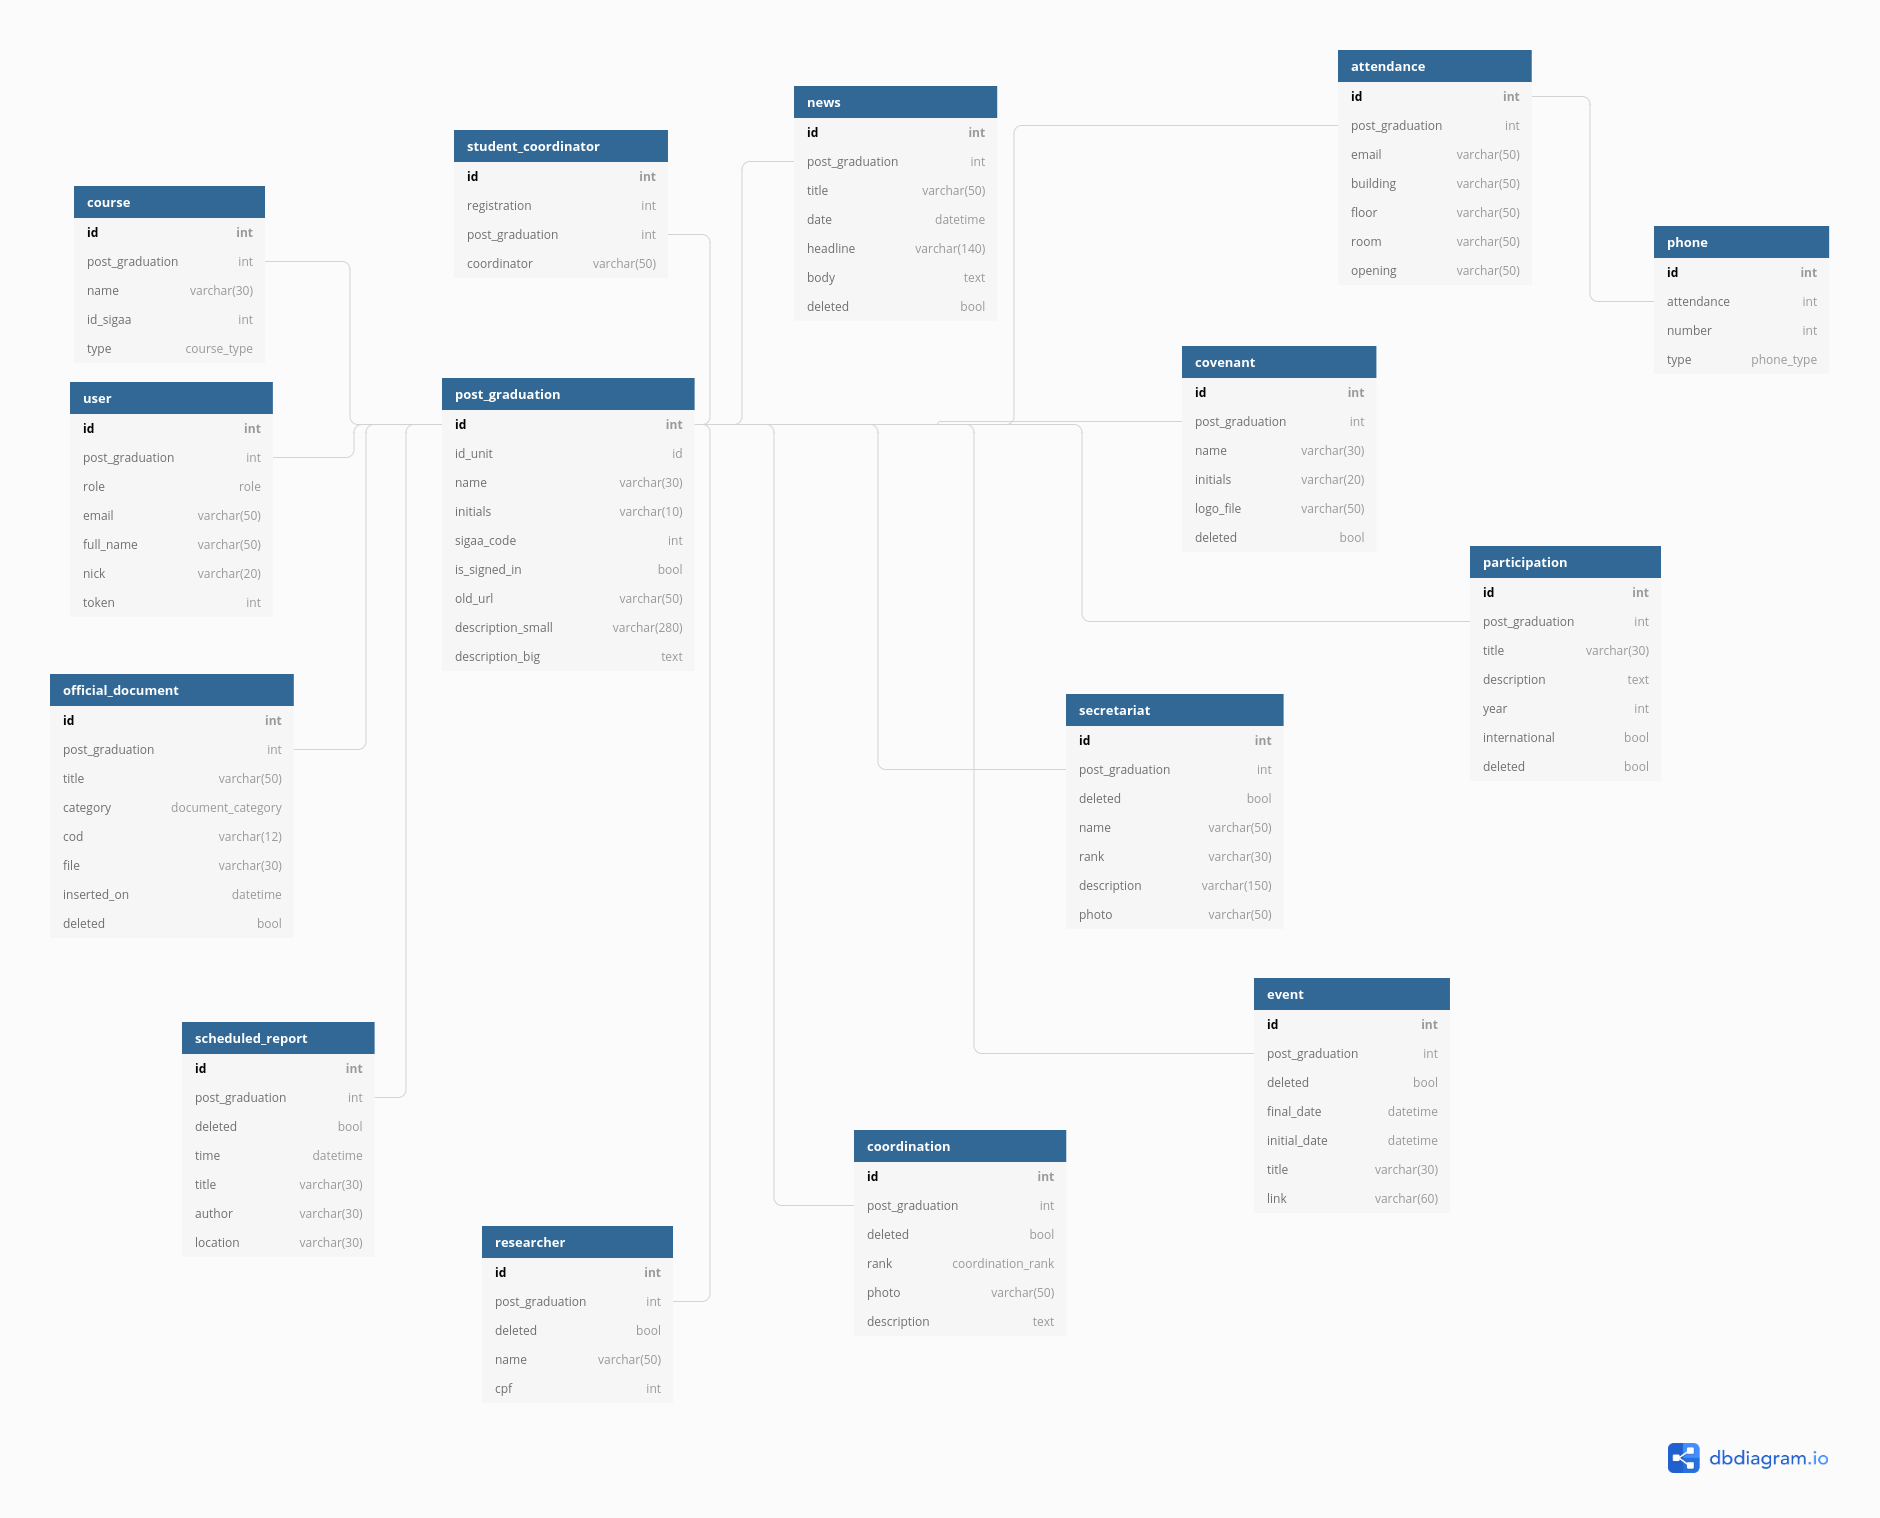
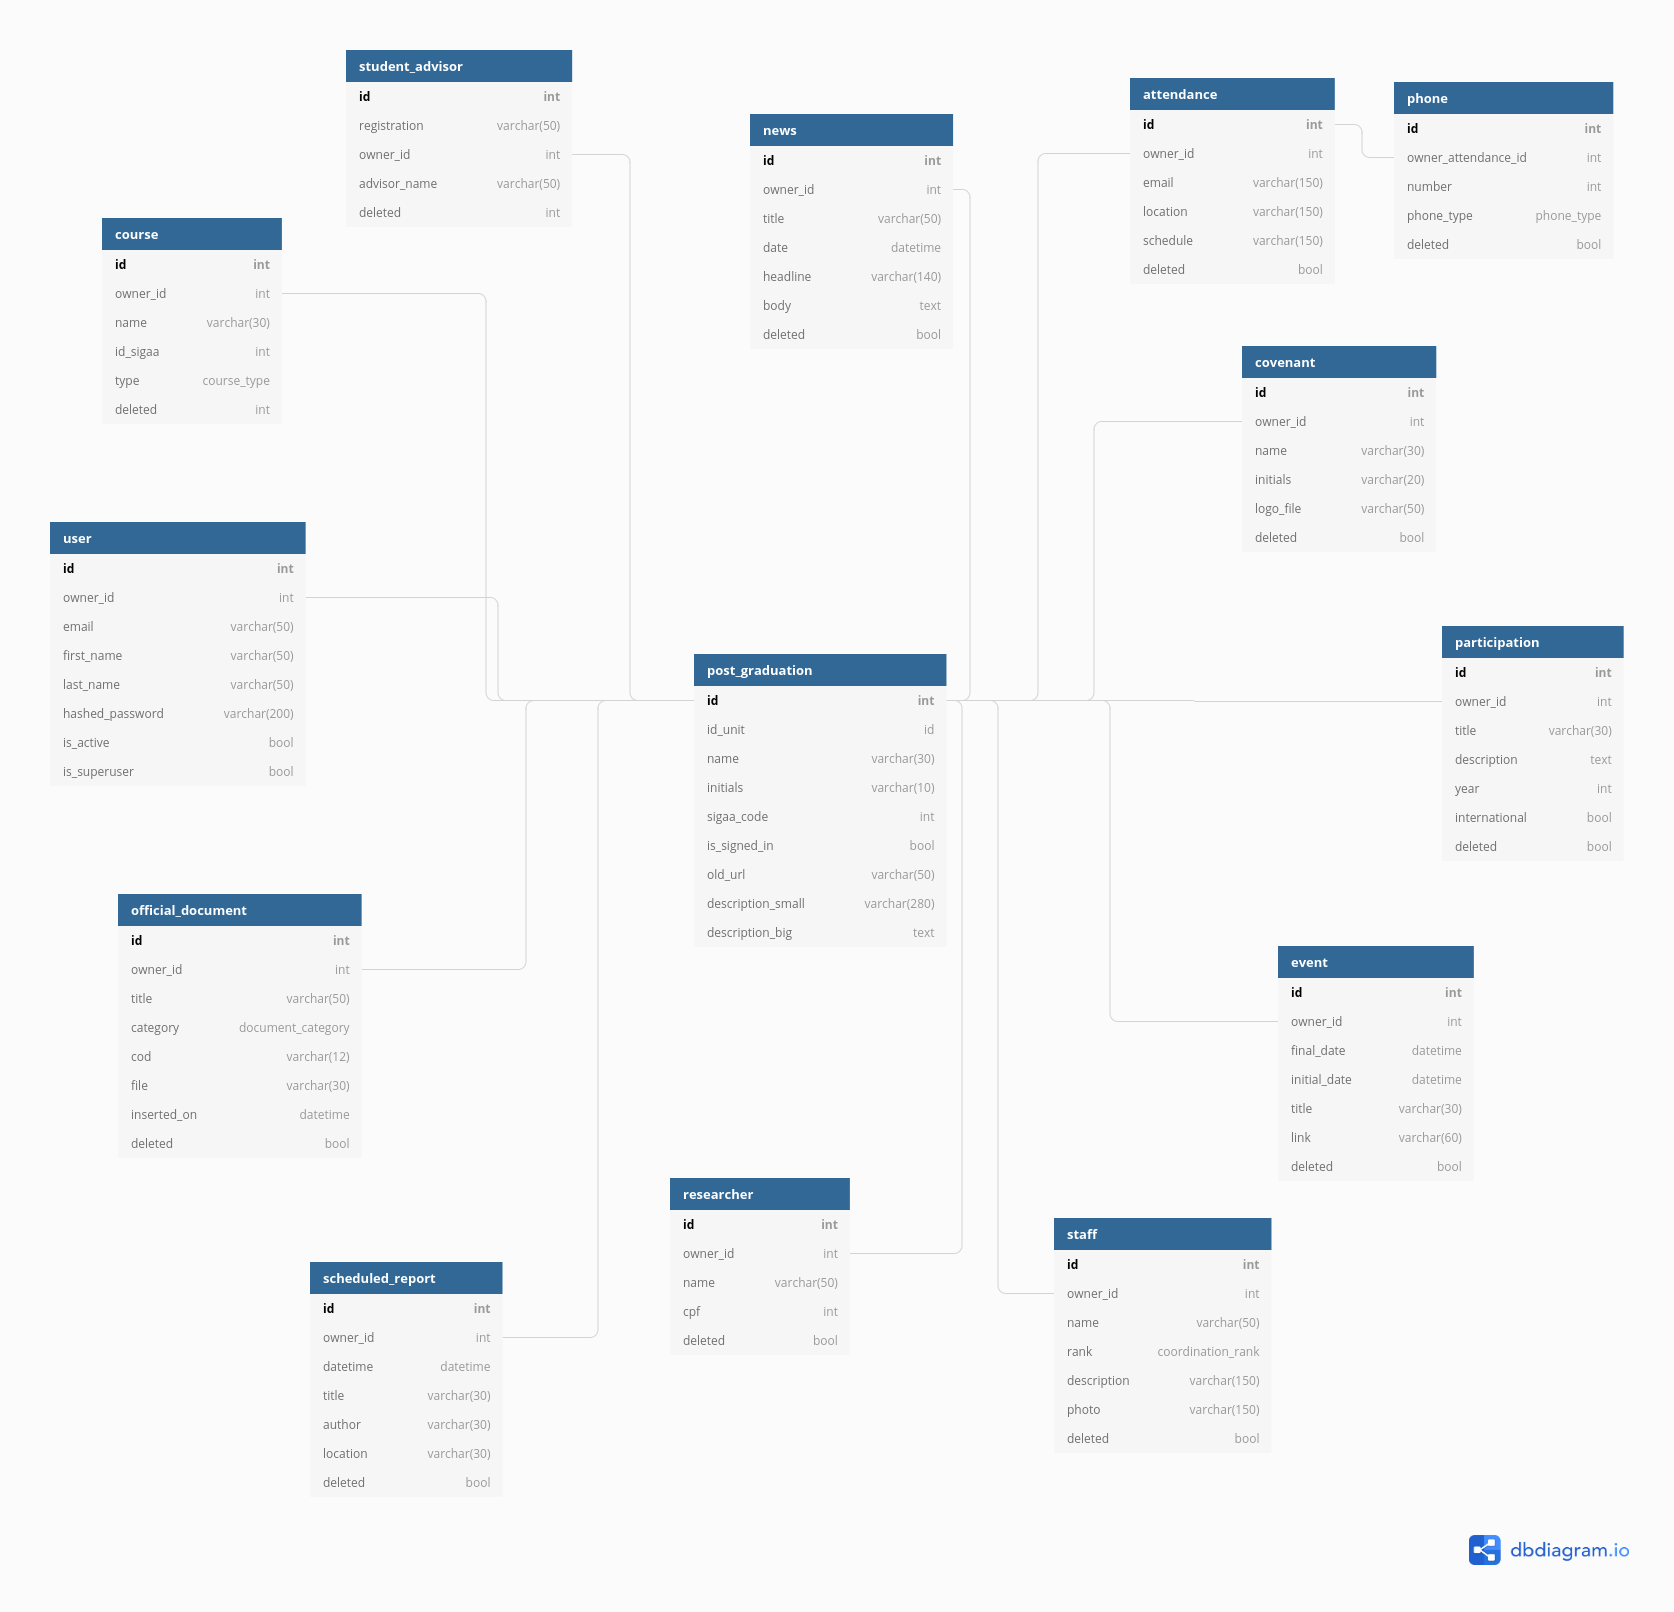
Added student advisor crud and update readme

diff --git a/backend/app/api/api_v1/routers/student_advisor.py b/backend/app/api/api_v1/routers/student_advisor.py
@@ -1,0 +1,50 @@
+#!/usr/bin/env python3
+
+from fastapi import APIRouter, Request, Depends, Response, encoders
+import typing as t
+
+from app.db.session import get_db
+from app.db.crud.post_graduations import delete_information, edit_information, get_information, create_student_advisor
+from app.db import models as m
+
+from app.schemas.pg_information_schemas import StudentAdvisorCreate, StudentAdvisor, StudentAdvisorEdit
+from app.core.auth import get_current_active_user
+
+student_advisor_router = c = APIRouter()
+
+@c.post("/coordenador", response_model=StudentAdvisor, response_model_exclude_none=True)
+async def student_advisor_create(
+    request: Request,
+    student_advisor: StudentAdvisorCreate,
+    db=Depends(get_db),
+    current_user=Depends(get_current_active_user),
+):
+    """
+    Create a new advisors
+    """
+    return create_student_advisor(db, current_user.owner_id, student_advisor)
+
+@c.delete("/coordenador/{student_advisor_id}", response_model=StudentAdvisor, response_model_exclude_none=True)
+async def student_advisor_delete(
+        request: Request,
+        student_advisor_id: int,
+        db=Depends(get_db),
+        current_user=Depends(get_current_active_user),
+):
+    """
+    Delete advisor
+    """
+    return delete_information(db, get_information(db, student_advisor_id, m.StudentAdvisor).id, m.StudentAdvisor)
+
+@c.put("/coordenador/{student_advisor_id}", response_model=StudentAdvisor, response_model_exclude_none=True)
+async def student_advisor_edit(
+        request: Request,
+        student_advisor_id: int,
+        student_advisor: StudentAdvisorEdit,
+        db=Depends(get_db),
+        current_user=Depends(get_current_active_user),
+):
+    """
+    Edit advisor
+    """
+    return edit_information(db, get_information(db, student_advisor_id, m.StudentAdvisor).id, student_advisor, m.StudentAdvisor)

diff --git a/backend/app/api/api_v1/routers/tests/test_student_advisor.py b/backend/app/api/api_v1/routers/tests/test_student_advisor.py
@@ -1,0 +1,39 @@
+#!/usr/bin/env python3
+
+from app.db import models
+
+def test_add_student_advisor(client, test_user, user_token_headers):
+    new_student_advisor = {
+        "advisor_name": "Maria Arlete",
+        "registration": 11111111111,
+    }
+    response = client.post(
+        f"api/v1/coordenador",
+        json=new_student_advisor,
+        headers=user_token_headers
+    )
+    assert response.status_code == 200
+    assert all(item in response.json().items() for item in new_student_advisor.items())
+
+def test_edit_student_advisor(client, test_user, test_student_advisor, user_token_headers):
+    new_student_advisor = {
+        "advisor_name": "Marconi Neves Macedo",
+        "registration": 11111111111,
+    }
+    response = client.put(
+        f"api/v1/coordenador/{test_student_advisor.id}",
+        json=new_student_advisor,
+        headers=user_token_headers
+    )
+    assert response.status_code == 200
+    new_student_advisor['id'] = test_student_advisor.id
+    new_student_advisor['owner_id'] = test_student_advisor.owner_id
+    assert response.json() == new_student_advisor
+
+def test_delete_student_advisor(client, test_user, test_student_advisor, user_token_headers, test_db):
+    response = client.delete(
+        f"api/v1/coordenador/{test_student_advisor.id}",
+        headers=user_token_headers
+    )
+    assert response.status_code == 200
+    assert list(test_db.query(models.StudentAdvisor).filter(models.StudentAdvisor.deleted == False)) == []

diff --git a/backend/app/db/models.py b/backend/app/db/models.py
@@ -28,6 +28,7 @@ class PostGraduation(Base):
     news = relationship("News", back_populates="post_graduation_owner")
     events = relationship("Event", back_populates="post_graduation_owner")
     scheduled_reports = relationship("ScheduledReport", back_populates="post_graduation_owner")
+    advisors = relationship("StudentAdvisor", back_populates="post_graduation_owner")
 
 class User(Base):
     __tablename__ = "user"
@@ -182,3 +183,14 @@ class News(Base):
     date = Column(Date)
 
     post_graduation_owner = relationship("PostGraduation", back_populates="news")
+
+class StudentAdvisor(Base):
+    __tablename__ = "student_advisor"
+
+    id = Column(Integer, primary_key=True, index=True)
+    owner_id = Column(Integer, ForeignKey("post_graduation.id"))
+    registration = Column(String, nullable=False)
+    advisor_name = Column(String, nullable=False)
+    deleted = Column(Boolean, default=False)
+
+    post_graduation_owner = relationship("PostGraduation", back_populates="advisors")

diff --git a/backend/app/main.py b/backend/app/main.py
@@ -15,6 +15,7 @@ from app.api.api_v1.routers.participation import participation_router
 from app.api.api_v1.routers.news import news_router
 from app.api.api_v1.routers.event import event_router
 from app.api.api_v1.routers.scheduled_report import scheduled_report_router
+from app.api.api_v1.routers.student_advisor import student_advisor_router
 
 from app.core import config
 from app.db.session import SessionLocal
@@ -52,6 +53,7 @@ app.include_router(document_router, prefix="/api/v1", tags=["documents"])
 app.include_router(news_router, prefix="/api/v1", tags=["news"])
 app.include_router(event_router, prefix="/api/v1", tags=["events"])
 app.include_router(scheduled_report_router, prefix="/api/v1", tags=["scheduled reports"])
+app.include_router(student_advisor_router, prefix="/api/v1", tags=["student advisor"])
 app.include_router(public_router, prefix="/api/v1/publico", tags=["public"])
 
 if __name__ == "__main__":

diff --git a/backend/app/alembic/versions/9893b0de12f2_add_student_coordinator.py b/backend/app/alembic/versions/9893b0de12f2_add_student_coordinator.py
@@ -1,0 +1,30 @@
+"""add student coordinator
+
+Revision ID: 9893b0de12f2
+Revises: 32c2774d36e1
+Create Date: 2021-02-22 05:16:17.947827-08:00
+
+"""
+from alembic import op
+import sqlalchemy as sa
+
+
+# revision identifiers, used by Alembic.
+revision = '9893b0de12f2'
+down_revision = '32c2774d36e1'
+branch_labels = None
+depends_on = None
+
+
+def upgrade():
+    op.create_table(
+        "student_advisor",
+        sa.Column("id", sa.Integer, primary_key=True),
+        sa.Column("owner_id", sa.Integer, sa.ForeignKey("post_graduation.id")),
+        sa.Column("registration", sa.String(50), nullable=False),
+        sa.Column("advisor_name", sa.String(150), nullable=False),
+        sa.Column("deleted", sa.Boolean, default=False)
+    )
+
+def downgrade():
+    op.drop_table("student_advisor")

diff --git a/backend/conftest.py b/backend/conftest.py
@@ -218,6 +218,20 @@ def test_researcher(test_db, test_pg) -> models.Researcher:
     return researcher
 
 @pytest.fixture
+def test_student_advisor(test_db, test_pg) -> models.StudentAdvisor:
+    """
+    student advisor for testing
+    """
+    student_advisor = models.StudentAdvisor(
+        owner_id=test_pg.id,
+        advisor_name="Maria Arlete",
+        registration="12345678910"
+    )
+    test_db.add(student_advisor)
+    test_db.commit()
+    return student_advisor
+
+@pytest.fixture
 def test_covenant(test_db, test_pg) -> models.Covenant:
     """
     covenant for testing

diff --git a/backend/app/db/crud/post_graduations.py b/backend/app/db/crud/post_graduations.py
@@ -179,3 +179,11 @@ def create_scheduled_report(db: Session, pg_id: int, scheduled_report: pg_inform
         datetime=scheduled_report.datetime,
     )
     return add_information(db, db_scheduled_report)
+
+def create_student_advisor(db: Session, pg_id: int, student_advisor: pg_information_schemas.StudentAdvisorCreate):
+    db_student_advisor = models.StudentAdvisor(
+        owner_id=pg_id,
+        registration=student_advisor.registration,
+        advisor_name=student_advisor.advisor_name,
+    )
+    return add_information(db, db_student_advisor)

diff --git a/backend/app/schemas/pg_information_schemas.py b/backend/app/schemas/pg_information_schemas.py
@@ -25,6 +25,25 @@ class Researcher(ResearcherBase):
     class Config:
         orm_mode = True
 
+#Student advisor
+
+class StudentAdvisorBase(BaseModel):
+    registration: int
+    advisor_name: str
+
+class StudentAdvisorCreate(StudentAdvisorBase):
+    pass
+
+class StudentAdvisorEdit(StudentAdvisorBase):
+    pass
+
+class StudentAdvisor(StudentAdvisorBase):
+    id: int
+    owner_id: int
+
+    class Config:
+        orm_mode = True
+
 #Covenant schemas
 
 class CovenantBase(BaseModel):

diff --git a/README.md b/README.md
@@ -157,9 +157,8 @@ And fill the empty spaces with your own keys, optained in <https://api.ufrn.br/>
 * [x] News
 * [x] Event
 * [x] Scheduled Report
-* [ ] Secretariat
-* [ ] Coordination
 * [ ] Student Coordinator
+* [ ] Staff
 
 ## Project Layout
 
